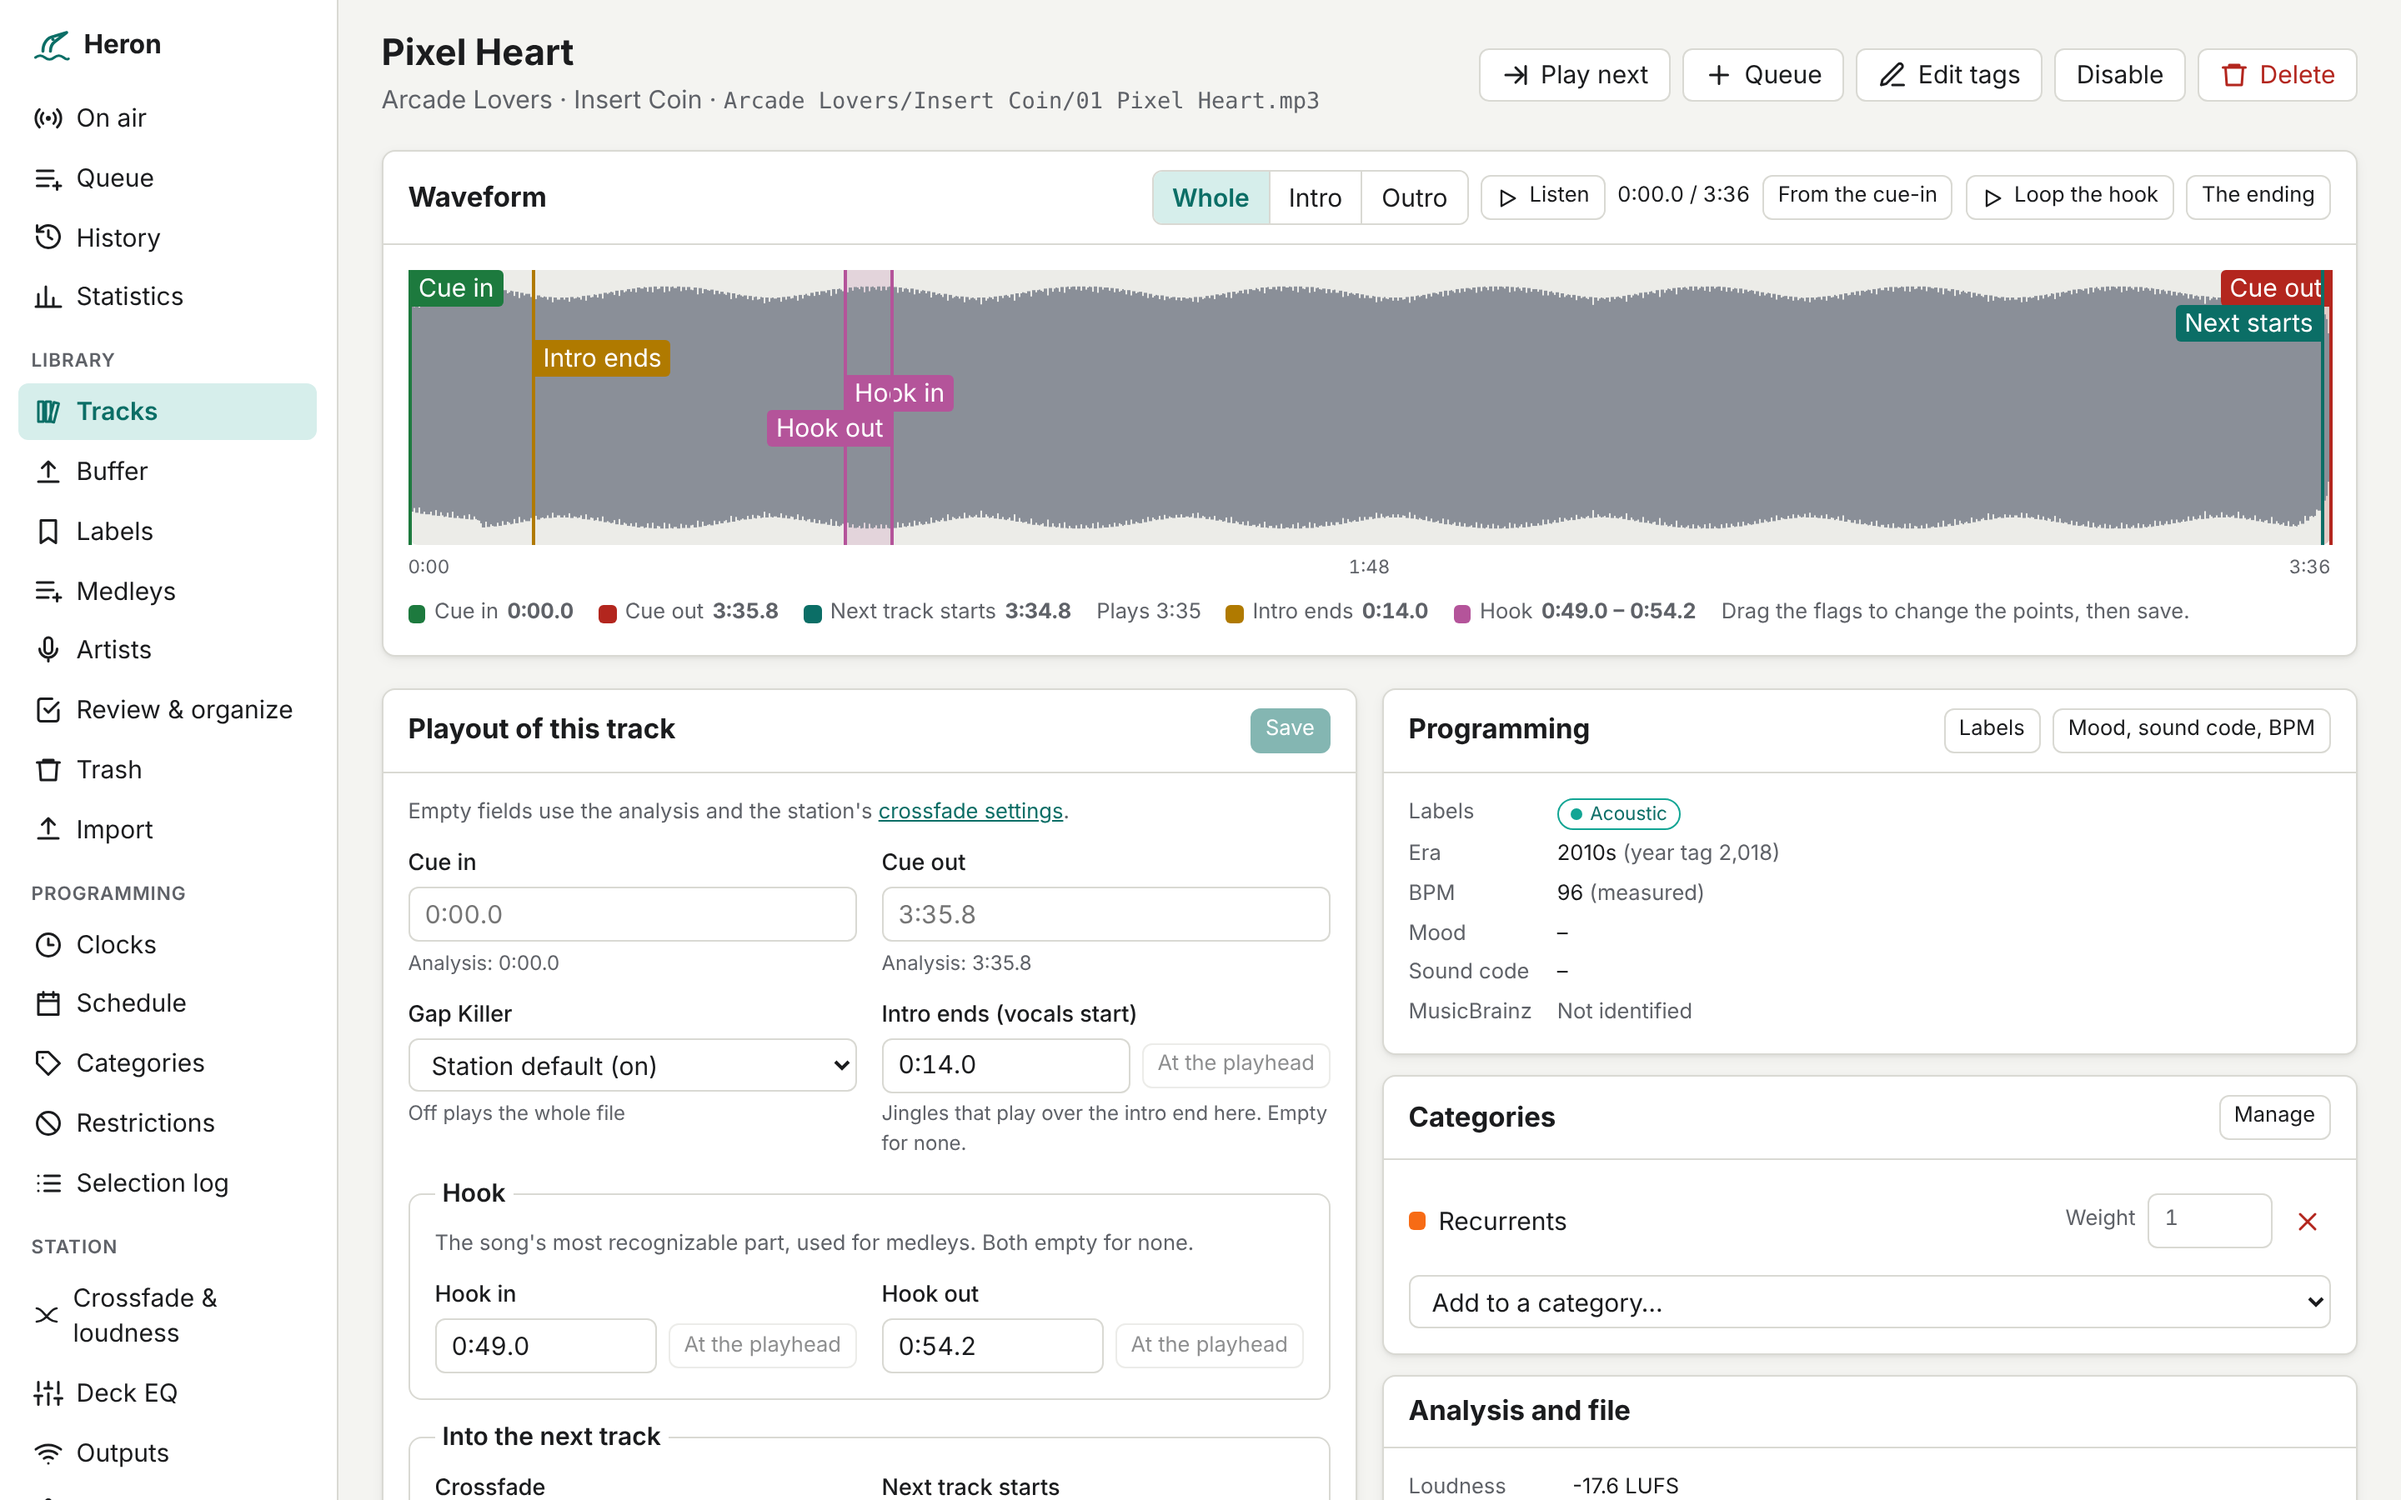
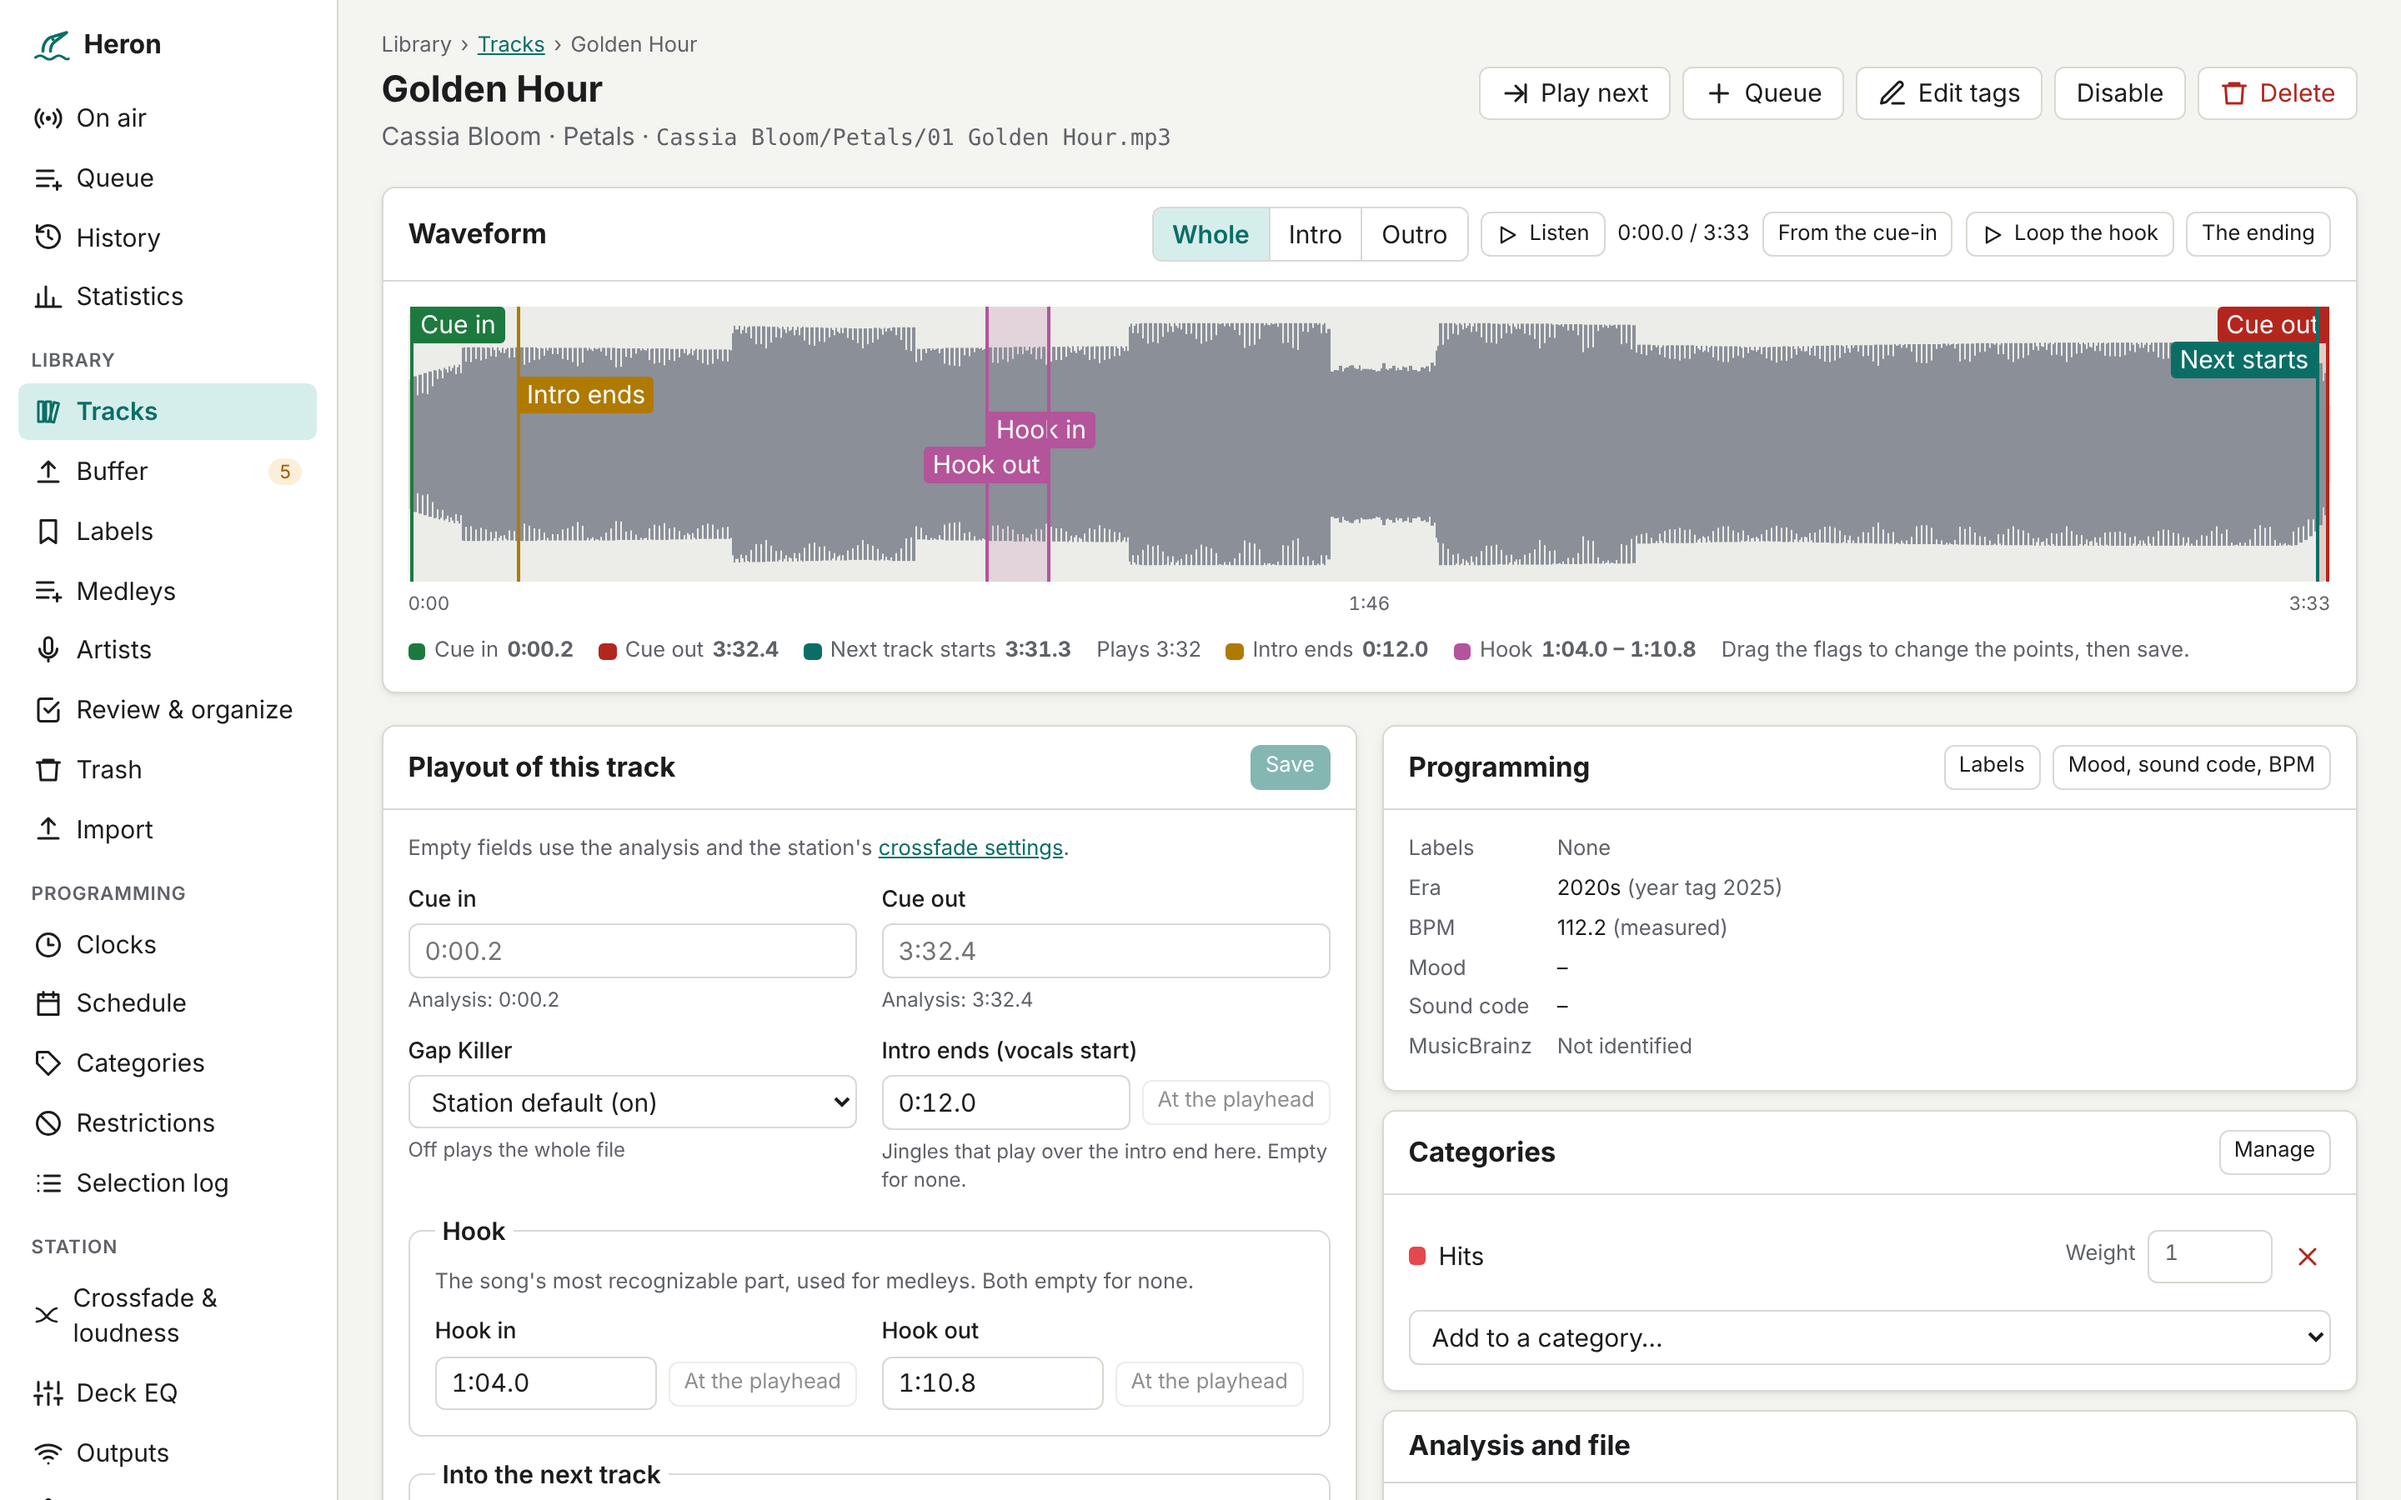
docs: a new track screenshot, and medleys, buffer, selection log and outputs
The track screenshot showed a waveform without shape: the demo music had
no dynamics. It is retaken with music that has an intro, verses,
choruses and a breakdown, and shows the intro and hook points. Four
screenshots of Heron's main features join the README: a medley on its
timeline, the buffer with an album waiting, the selection log, the
outputs. The README also lists medleys among what Heron does.

diff --git a/README.md b/README.md
@@ -16,6 +16,7 @@ Heron runs on Linux, amd64 and arm64, down to a Raspberry Pi.
 - **New music and deletion:** files uploaded from the browser (resumable, folders included) or dropped into the incoming folder wait in a buffer zone, identified (AcoustID, MusicBrainz) and checked for duplicates and unplayable files, until you import them. There you fix their tags and give them categories, labels, mood and sound code, so they are ready to air once imported; they are then tagged and filed as `Artist/Album/01 Title.ext`. Deleted tracks go to a trash they can be restored from for 30 days. Reorganizing the library is a dry run first, journaled, and can be undone. See [Library management](docs/library.md).
 - **Moving from another software:** an export of another radio automation software (titles, artists, categories, fades, intro and hook points, problems) is matched to the library by file name, checked in a dry run where conflicts with Heron's own values are settled, then applied as one import that can be undone. See [Importing from another software](docs/import.md).
 - **Playout:** two decks with crossfades or fixed overlaps, Gap Killer, loudness normalization, an FX player for jingles over the music, a fallback folder, MP3 to one or more Icecast servers with track metadata, and any codec of the station's own `ffmpeg` (AAC+ with `libfdk_aac`, for instance) through the external FFmpeg encoder. See [Audio engine](docs/audio-engine.md) and [Encoders and outputs](docs/outputs.md).
+- **Medleys:** the hooks of several songs strung together with the station's liners, between them or over the music, built from a recipe, adjusted on a timeline (moves, crossfades, a fade-out) and listened to before they are mixed into a track of the library, named after their artists or titles. See [Medleys](docs/medleys.md).
 - **Deck EQ:** a 10-band EQ for the music and another for the FX player, ±12 dB, heard as the sliders move and without clicks, with presets. See [Audio engine – Deck EQ](docs/audio-engine.md#deck-eq).
 - **Reliability and monitoring:** the next tracks are read into memory ahead of time, a fallback folder plays when the queue runs dry, a silence watchdog skips dead tracks, and the queue resumes where it was after a restart. Every service pushes its metrics to your Prometheus or Grafana Cloud, with a dashboard and alert rules to import, and errors can go to Sentry. See [Monitoring](docs/monitoring.md).
 - **Upgrades on air:** a new engine takes over from the running one, with its queue and its connection to Icecast, so an upgrade costs listeners about 70 ms of silence instead of a disconnection; when the engine does restart, Icecast's fallback mount keeps them connected. See [Upgrading](docs/upgrading.md) and [Engine handover](docs/handover.md).
@@ -29,8 +30,10 @@ Heron runs on Linux, amd64 and arm64, down to a Raspberry Pi.
 
 | | |
 |---|---|
-| [![A clock: its slots, the hour drawn as it will sound, a simulation](docs/images/clock-editor.png)](docs/images/clock-editor.png) **Clock editor:** slots by drag and drop, the hour as it will sound | [![A track: waveform with cue-in, cue-out and where the next track starts](docs/images/track.png)](docs/images/track.png) **Track:** waveform, cue points and crossfade, analysis |
+| [![A clock: its slots, the hour drawn as it will sound, a simulation](docs/images/clock-editor.png)](docs/images/clock-editor.png) **Clock editor:** slots by drag and drop, the hour as it will sound | [![A track: waveform with cue-in, cue-out, the end of the intro, the hook and where the next track starts](docs/images/track.png)](docs/images/track.png) **Track:** waveform, cue points, intro and hook, crossfade, analysis |
 | [![The week, hour by hour, painted with clocks](docs/images/schedule.png)](docs/images/schedule.png) **Schedule:** which clock runs at each hour of the week | [![The deck EQ: ten sliders and the response curve for the music, and for the FX player](docs/images/eq.png)](docs/images/eq.png) **Deck EQ:** the music and the FX player, heard as the sliders move |
+| [![A medley: its hooks and liners on a timeline, the liners over the music, the fade-out, the playhead](docs/images/medley.png)](docs/images/medley.png) **Medleys:** hooks and liners mixed into a track, on a timeline to listen to and adjust | [![The buffer: an album waiting to be imported, with its paths and categories](docs/images/buffer.png)](docs/images/buffer.png) **Buffer:** new music identified, checked and prepared before it is imported |
+| [![The selection log: why each track was picked, from which clock and slot, the rules held or relaxed](docs/images/selection-log.png)](docs/images/selection-log.png) **Selection log:** why each track was picked, and a simulation of the day or the week | [![The outputs: an Icecast stream connected with its listeners, the encoder profiles](docs/images/outputs.png)](docs/images/outputs.png) **Outputs:** stream servers and encoders, live state and listeners |
 | [![The On air page in the dark theme](docs/images/on-air-dark.png)](docs/images/on-air-dark.png) **Dark theme** | <p align="center"><img src="docs/images/on-air-phone.png" alt="The On air page at phone width" width="200"></p> **Phone width** |
 
 The screenshots show a demo station with generated music by fictional artists.
